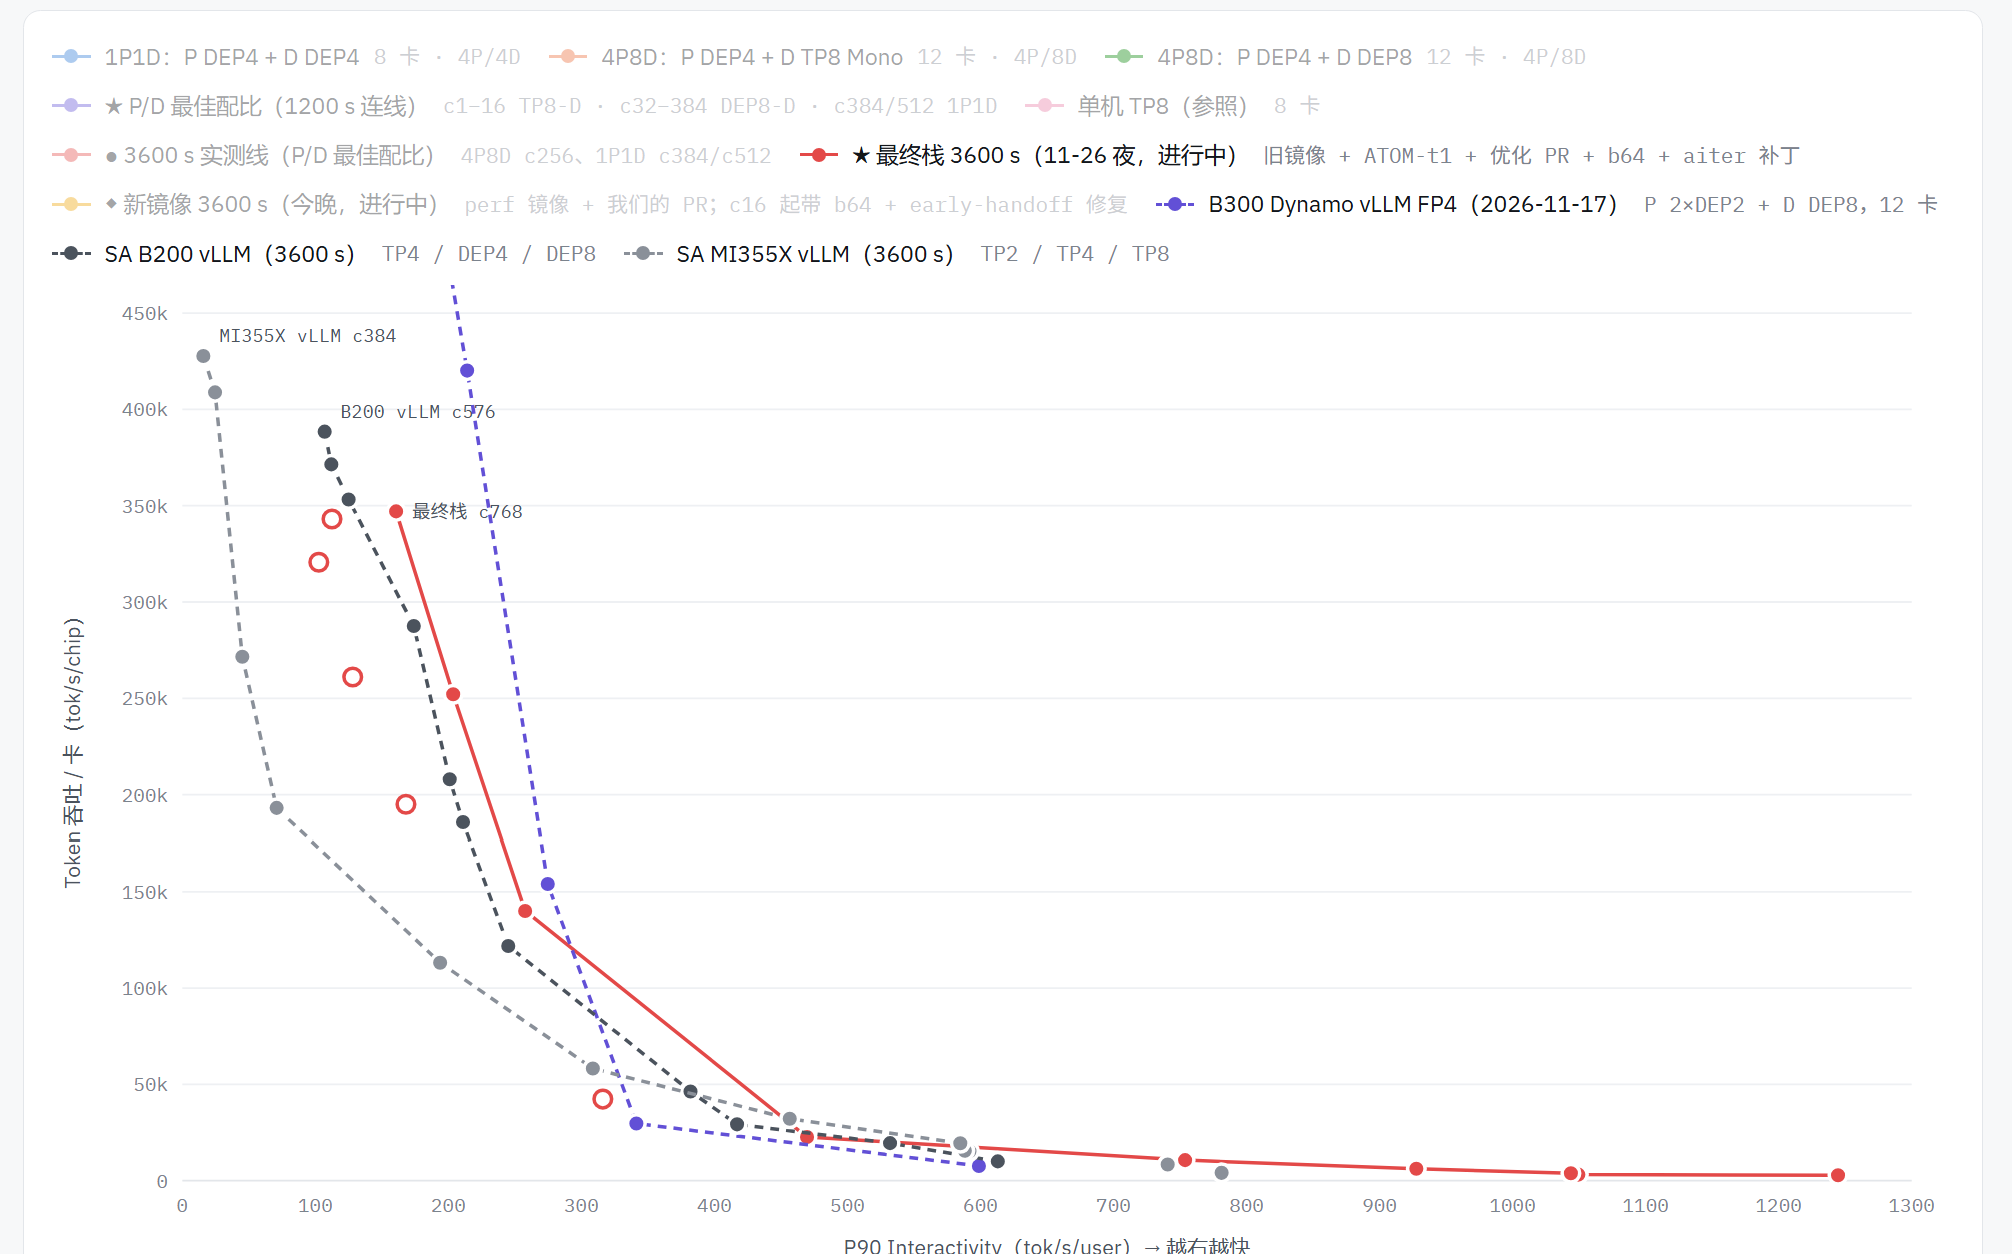
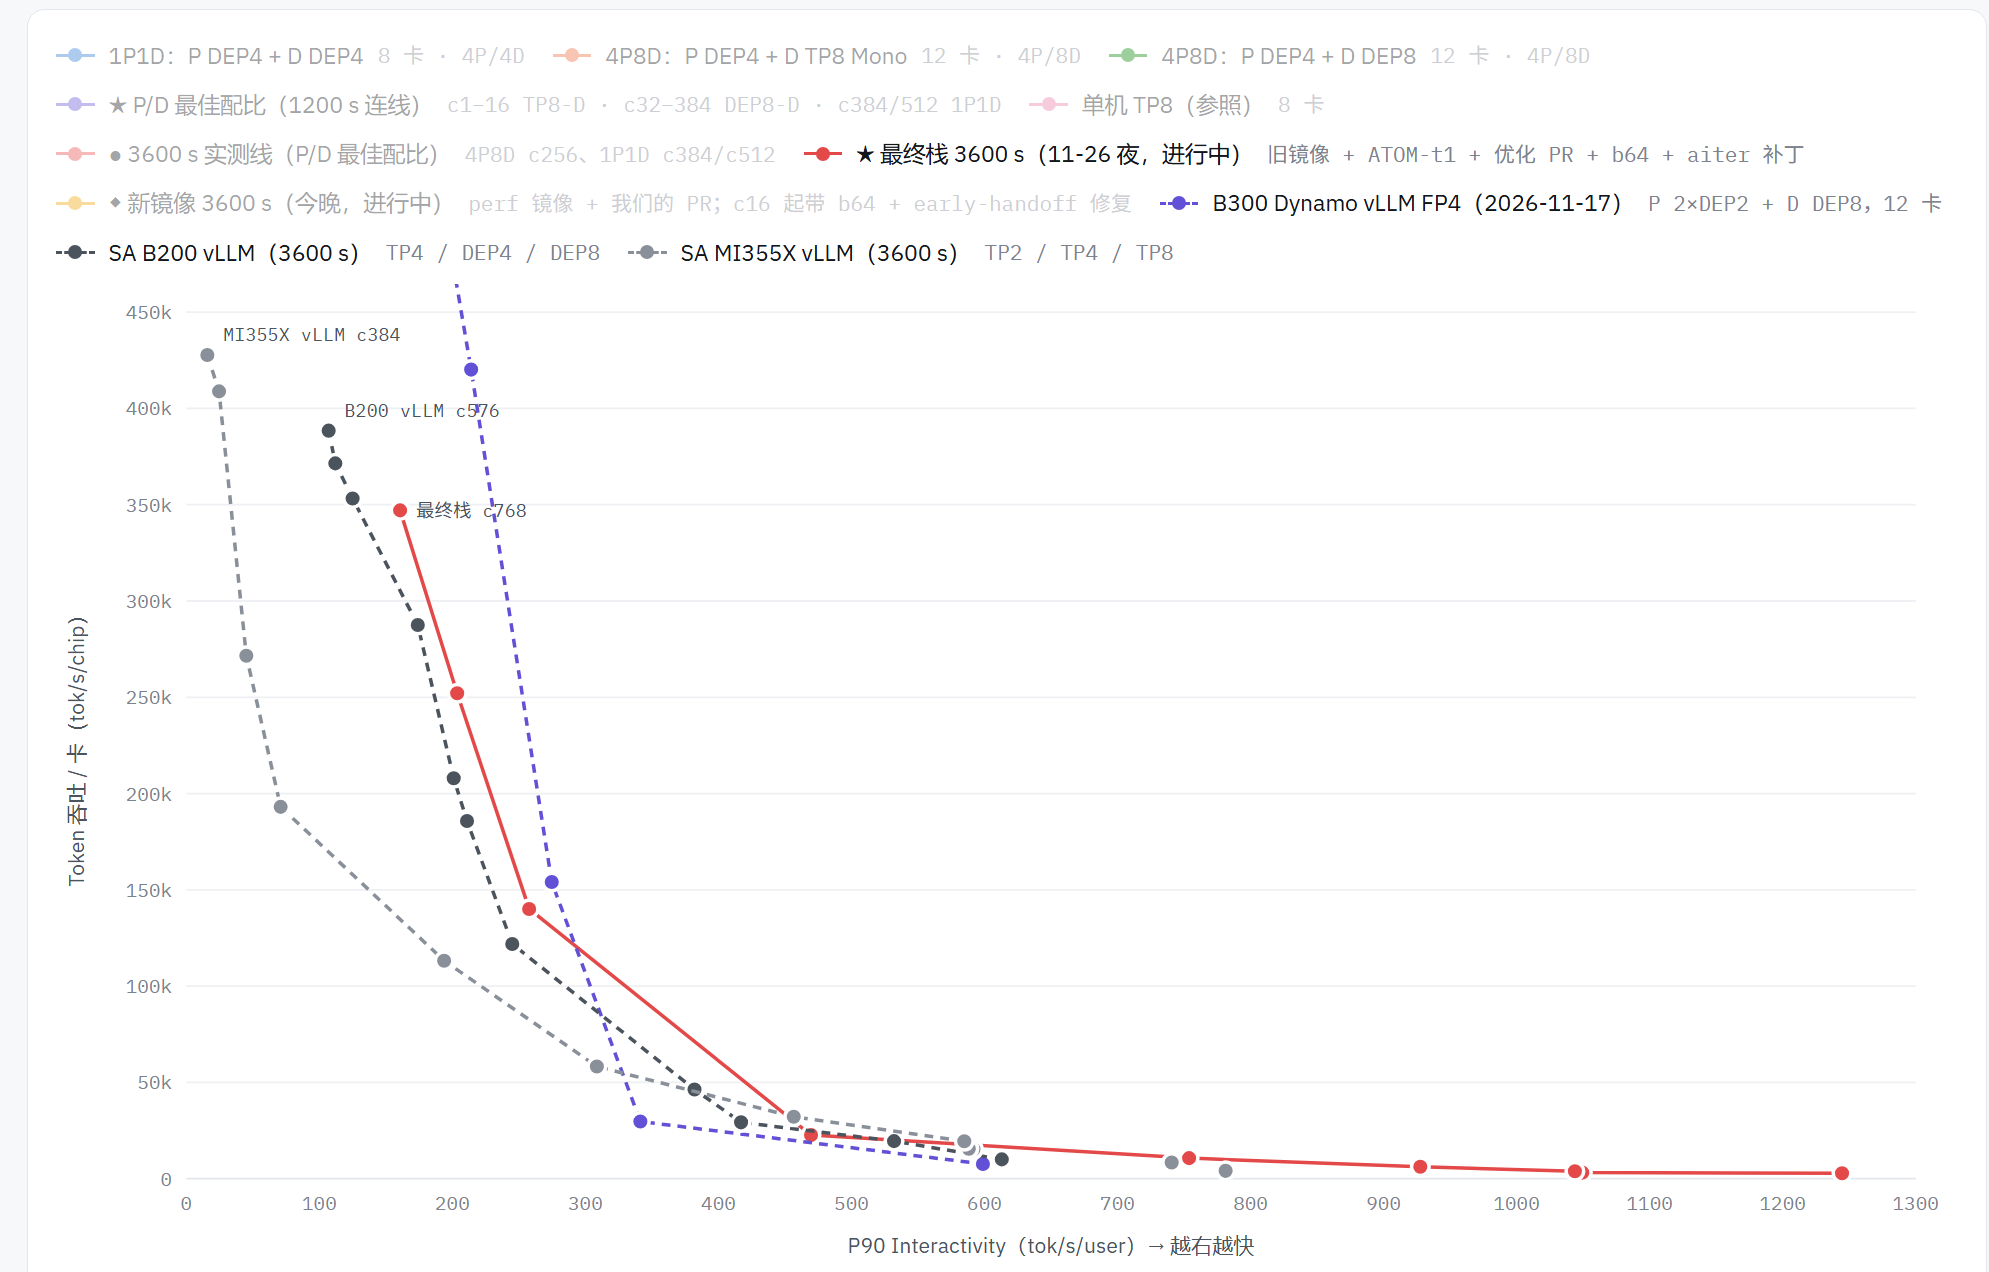
[recipe] DeepSeek-V4.1-Flash: refresh the 4P8D chart (connected points only)

diff --git a/recipes/DeepSeek-V4.1-Flash-PD-4P4D.md b/recipes/DeepSeek-V4.1-Flash-PD-4P4D.md
@@ -1,4 +1,4 @@
-# DeepSeek V4.1-Flash 4P4D on one 8-GPU node (TTFT-optimized)
+# DeepSeek V4.1-Flash 4P4D on one 8-GPU node (TTFT-optimized)
 
 This recipe describes a single-node prefill/decode (P/D) split for
 DeepSeek-V4.1-Flash-1017 on 8x MI355X running the AgentX C256 workload. The
@@ -520,8 +520,7 @@ What the tables show:
 
 ![DeepSeek-V4.1-Flash P/D on MI355X: token throughput per GPU vs P90 interactivity (AgentX, 3600 s)](DeepSeek-V4.1-Flash-PD-4P8D-AgentX-curve.png)
 
-The red solid line is this ladder (filled points are connected; hollow points are 1P1D / other P:D
-shapes kept for reference). Reference curves: B300 Dynamo vLLM FP4 and B200 / MI355X vLLM from public
+The red solid line is this ladder (every point is connected). Reference curves: B300 Dynamo vLLM FP4 and B200 / MI355X vLLM from public
 InferenceX data. x = 1000 / P90 ITL (tok/s/user); y = total tok/s divided by all GPUs in the deployment.
 
 This part is a two-node P/D deployment of DeepSeek-V4.1-Flash-1017 on 12x
